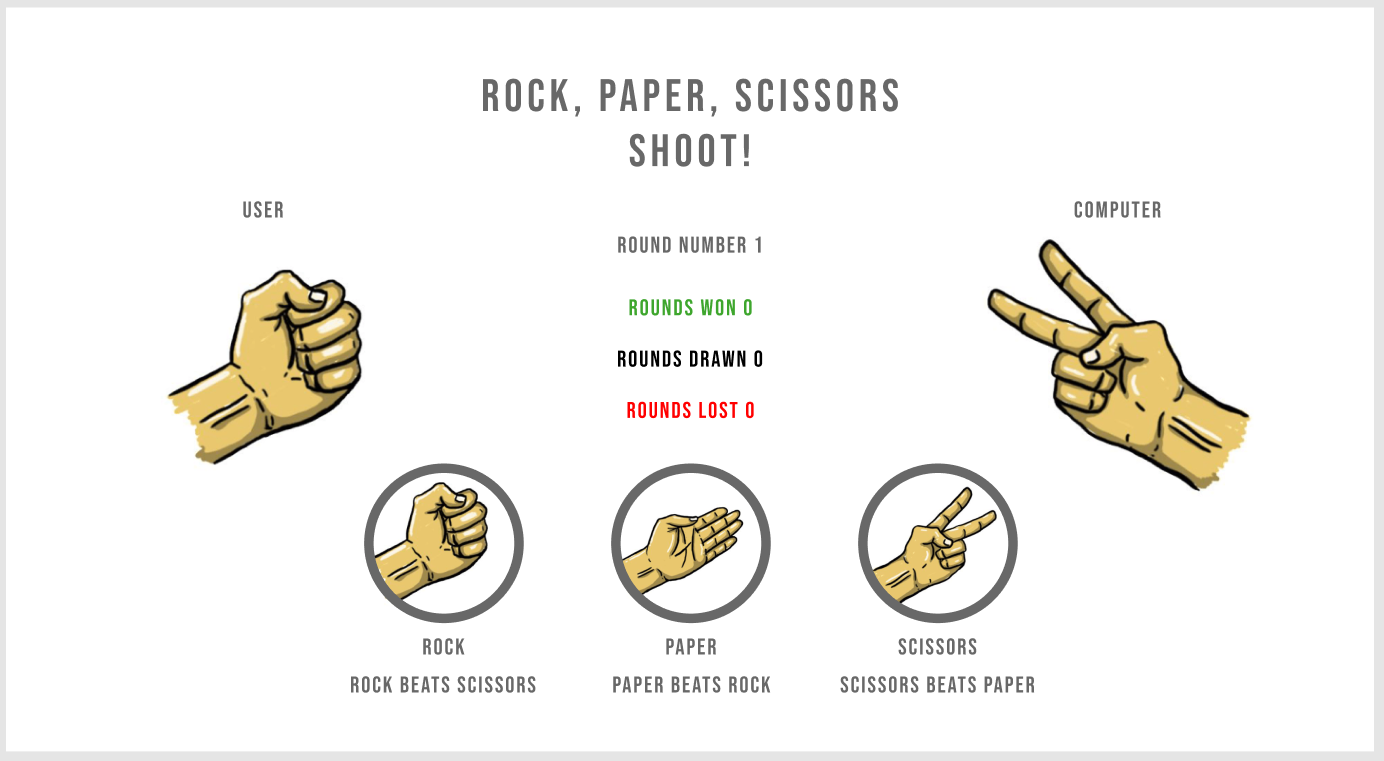
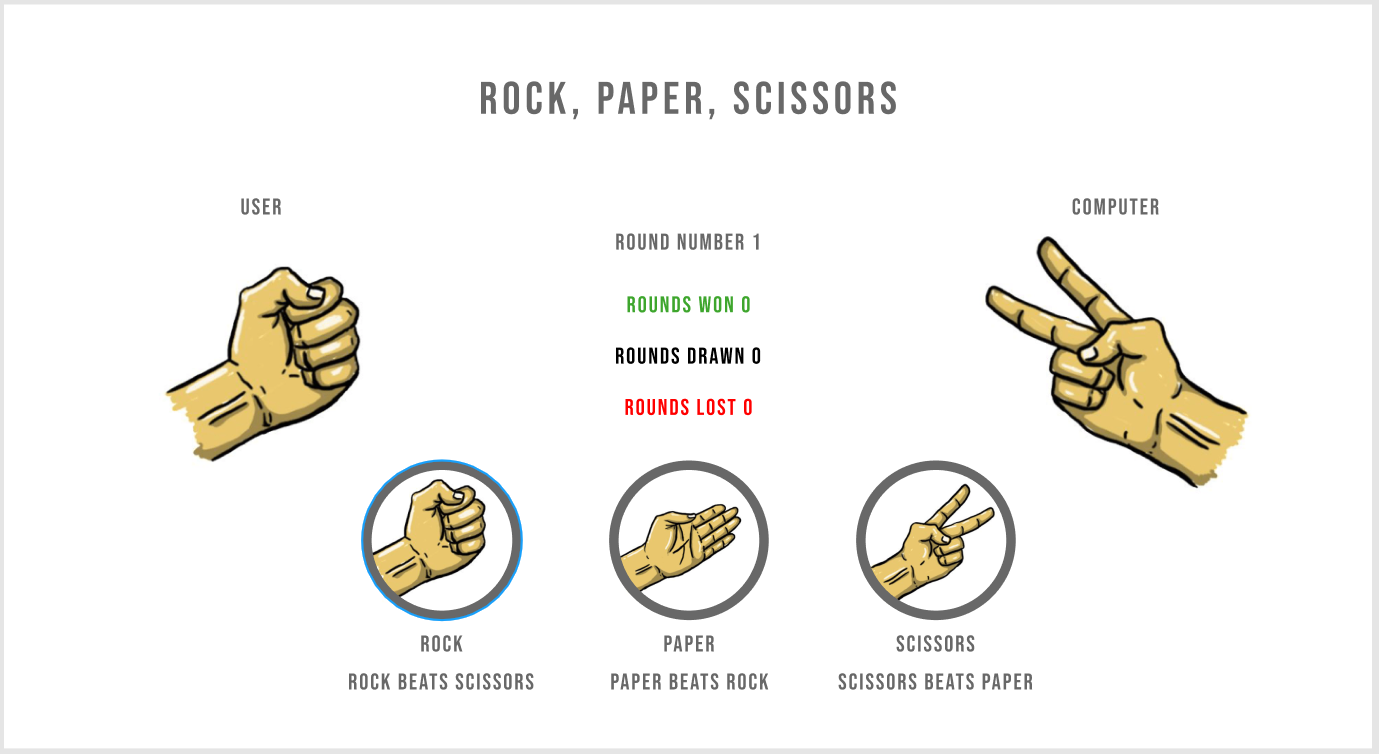
readme screenshots updated, unbinding to be looked at in js

diff --git a/index.html b/index.html
@@ -4,9 +4,9 @@
     <meta charset="UTF-8">
     <meta http-equiv="X-UA-Compatible" content="IE=edge">
     <meta name="viewport" content="width=device-width, initial-scale=1.0">
-    <meta name="description" content="Rock, Paper, Scissors Shoot! - Interactive Game">
+    <meta name="description" content="Rock, Paper, Scissors! - Interactive Game">
     <meta name="keywords"
-        content="rock, paper, scissors, game, interactive, computer, random, kill time, chill out game">
+        content="rock, paper, scissors, game, interactive, computer, random, chill out game">
 
     <link rel="apple-touch-icon" sizes="180x180" href="./assets/favicon/apple-touch-icon.png">
     <link rel="icon" type="image/png" sizes="32x32" href="./assets/favicon/favicon-32x32.png">
@@ -14,12 +14,12 @@
     <link rel="manifest" href="./assets/favicon/site.webmanifest" crossorigin="use-credentials">
     <link href="https://fonts.googleapis.com/css2?family=Bebas+Neue&family=Space+Mono&display=swap" rel="stylesheet">
     <link rel="stylesheet" href="assets/css/style.css">
-    <title>Rock, Paper, Scissors Shoot!</title>
+    <title>Rock, Paper, Scissors!</title>
 </head>
 <body>
 
     <div class="game-name">
-        Rock, Paper, Scissors <br> Shoot!
+        Rock, Paper, Scissors!
     </div>
 
         <div class="players">

diff --git a/assets/css/style.css b/assets/css/style.css
@@ -321,7 +321,6 @@ body {
     #computer-image {
         width: 120px;
         margin-top: 50px;
-
     }
 
     .player-name-user {
@@ -379,6 +378,7 @@ body {
     .rules{
         font-size: 1rem;
     }
+}
 
 
 @media (max-width: 320px) {
@@ -458,5 +458,4 @@ body {
         font-size: 0.8rem;
         margin: 10px;
     }
-
 }

diff --git a/README.md b/README.md
@@ -1,14 +1,14 @@
-# Rock, Paper, Scissors Shoot!
+# Rock, Paper, Scissors!
 
-For the deployed Website [Click here.](https://liamsmith3194.github.io/rock-paper-scissors-shoot/)
+For the deployed Website [Click here.](https://liamsmith3194.github.io/rock-paper-scissors/)
 
-Welcome to Rock, Paper, Scissors Shoot! Based on the popular hand game, usually played between two people, in which each player simultaneously form one of three shapes with a hand.
+Welcome to Rock, Paper, Scissors! Based on the popular hand game, usually played between two people, in which each player simultaneously form one of three shapes with a hand.
 
-![Icons & Rules](https://raw.githubusercontent.com/liamsmith3194/rock-paper-scissors-shoot/main/assets/readme-images/icons-rules.PNG)
+![Icons & Rules](https://raw.githubusercontent.com/liamsmith3194/rock-paper-scissors/main/assets/readme-images/icons-rules.PNG)
 
 Responsively designed to display on a range of devices from desktops to mobiles.
 
-![Am I Responsive](https://raw.githubusercontent.com/liamsmith3194/rock-paper-scissors-shoot/main/assets/readme-images/am-i-responsive.PNG)
+![Am I Responsive](https://raw.githubusercontent.com/liamsmith3194/rock-paper-scissors/main/assets/readme-images/am-i-responsive.PNG)
 
 ## User Experience (UX)
 
@@ -35,13 +35,13 @@ The scoreboard uses win, draw, lose colours (green #3EA62D, black #000000, red #
 
 - ### Wireframes
 
-- Figma Desktop Wireframe - [View](https://www.figma.com/file/ciXYUYV361qot5MCN7Z5hF/Rock%2C-Paper%2C-Scissors-Shoot---Desktop?node-id=0%3A1)
+- Figma Desktop Wireframe - [View](https://www.figma.com/file/ciXYUYV361qot5MCN7Z5hF/Rock%2C-Paper%2C-Scissors---Desktop?node-id=0%3A1)
 
-![Figma Desktop Wireframe](https://raw.githubusercontent.com/liamsmith3194/rock-paper-scissors-shoot/main/assets/readme-images/desktop-wireframe.PNG)
+![Figma Desktop Wireframe](https://raw.githubusercontent.com/liamsmith3194/rock-paper-scissors/main/assets/readme-images/desktop-wireframe.PNG)
 
-- Figma Mobile Wireframe - [View](https://www.figma.com/file/EtSRFMgeaP0ACLVRtgNXmQ/Rock%2C-Paper%2C-Scissors-Shoot---Mobile?node-id=0%3A1)
+- Figma Mobile Wireframe - [View](https://www.figma.com/file/EtSRFMgeaP0ACLVRtgNXmQ/Rock%2C-Paper%2C-Scissors---Mobile?node-id=0%3A1)
 
-![Figma Mobile Wireframe](https://raw.githubusercontent.com/liamsmith3194/rock-paper-scissors-shoot/main/assets/readme-images/mobile-wireframe.PNG)
+![Figma Mobile Wireframe](https://raw.githubusercontent.com/liamsmith3194/rock-paper-scissors/main/assets/readme-images/mobile-wireframe.PNG)
 
 ## Features
 Below is a brief overview of the website and its main features.
@@ -52,11 +52,9 @@ Below is a brief overview of the website and its main features.
 
 ### Interactive buttons
 
-- Removing the background behind the images has made the buttons look very professional especially when hovered over with the white background filling in around the icon in a slightly lighter shade of grey.
-![Buttons Hover Pseudo](https://raw.githubusercontent.com/liamsmith3194/rock-paper-scissors-shoot/main/assets/readme-images/interactive-buttons-hover.PNG)
+- Removing the background behind the images has made the buttons look very professional especially when hovered over with the white background filling in around the icon in a slightly lighter shade of grey. The button also increases in size slightly making it even more obvious for the user to know where the mouse is.
+![Buttons Hover Pseudo](https://raw.githubusercontent.com/liamsmith3194/rock-paper-scissors/main/assets/readme-images/interactive-buttons-hover.PNG)
 
-- When a button is clicked that button increases in size to show the user that their selection has been identified and the computer is randomly selecting its answer in return.
-![Buttons Focus Pseudo](https://raw.githubusercontent.com/liamsmith3194/rock-paper-scissors-shoot/main/assets/readme-images/interactive-buttons-focus.PNG)
 
 ### Alert message to confirm round outcome
 
@@ -65,15 +63,15 @@ Below is a brief overview of the website and its main features.
 - The computer played: Rock
 - It's a draw!
 
-![Won](https://raw.githubusercontent.com/liamsmith3194/rock-paper-scissors-shoot/main/assets/readme-images/alert-message-won.PNG)
+![Won](https://raw.githubusercontent.com/liamsmith3194/rock-paper-scissors/main/assets/readme-images/alert-message-won.PNG)
 
-![Drawn](https://raw.githubusercontent.com/liamsmith3194/rock-paper-scissors-shoot/main/assets/readme-images/alert-message-draw.PNG)
+![Drawn](https://raw.githubusercontent.com/liamsmith3194/rock-paper-scissors/main/assets/readme-images/alert-message-draw.PNG)
 
-![Lost](https://raw.githubusercontent.com/liamsmith3194/rock-paper-scissors-shoot/main/assets/readme-images/alert-message-lost.PNG)
+![Lost](https://raw.githubusercontent.com/liamsmith3194/rock-paper-scissors/main/assets/readme-images/alert-message-lost.PNG)
 
 ### Automatic updating scoreboard & round number
 
-![Scoreboard](https://raw.githubusercontent.com/liamsmith3194/rock-paper-scissors-shoot/main/assets/readme-images/scoreboard.PNG)
+![Scoreboard](https://raw.githubusercontent.com/liamsmith3194/rock-paper-scissors/main/assets/readme-images/scoreboard.PNG)
 
 ## Future Features
 
@@ -106,8 +104,8 @@ Below is a brief overview of the website and its main features.
 
 The W3C Markup Validator and W3C CSS Validator Services were used to ensure there were no syntax errors in the project.
 
-- [W3C Markup Validator](https://jigsaw.w3.org/css-validator/#validate_by_input) - [Results](https://validator.w3.org/nu/?doc=https%3A%2F%2Fliamsmith3194.github.io%2Frock-paper-scissors-shoot%2F)
-- [W3C CSS Validator](https://jigsaw.w3.org/css-validator/#validate_by_input) - [Results](https://jigsaw.w3.org/css-validator/validator?uri=https%3A%2F%2Fliamsmith3194.github.io%2Frock-paper-scissors-shoot)
+- [W3C Markup Validator](https://jigsaw.w3.org/css-validator/#validate_by_input) - [Results](https://validator.w3.org/nu/?doc=https%3A%2F%2Fliamsmith3194.github.io%2Frock-paper-scissors%2F)
+- [W3C CSS Validator](https://jigsaw.w3.org/css-validator/#validate_by_input) - [Results](https://jigsaw.w3.org/css-validator/validator?uri=https%3A%2F%2Fliamsmith3194.github.io%2Frock-paper-scissors)
 
 ### Lighthouse Testing
 
@@ -115,11 +113,11 @@ Initial lighthouse scores produced a performance of 100, accessibility of 94 but
 
 - Mobile Results
 
-![Lighthouse Mobile Results](https://raw.githubusercontent.com/liamsmith3194/rock-paper-scissors-shoot/main/assets/readme-images/lighthouse-mobile.PNG)
+![Lighthouse Mobile Results](https://raw.githubusercontent.com/liamsmith3194/rock-paper-scissors/main/assets/readme-images/lighthouse-mobile.PNG)
 
 - Desktop Results
 
-![Lighthouse Desktop Results](https://raw.githubusercontent.com/liamsmith3194/rock-paper-scissors-shoot/main/assets/readme-images/lighthouse-desktop.PNG)
+![Lighthouse Desktop Results](https://raw.githubusercontent.com/liamsmith3194/rock-paper-scissors/main/assets/readme-images/lighthouse-desktop.PNG)
 
 ### Testing User Stories from User Experience (UX) Section
 
@@ -165,24 +163,24 @@ GitHub was the program used to deploy the site, it was accomplished by using the
 
 1. Log in to GitHub and select the GitHub Repository.
 
-![GitHub Repository](https://raw.githubusercontent.com/liamsmith3194/rock-paper-scissors-shoot/main/assets/readme-images/github-repo.PNG)
+![GitHub Repository](https://raw.githubusercontent.com/liamsmith3194/rock-paper-scissors/main/assets/readme-images/github-repo.PNG)
 
 2. At the top of the page towards the middle of the screen you will see a "Settings" menu item with a cog icon.
 
-![GitHub Settings](https://raw.githubusercontent.com/liamsmith3194/rock-paper-scissors-shoot/main/assets/readme-images/github-settings.PNG)
+![GitHub Settings](https://raw.githubusercontent.com/liamsmith3194/rock-paper-scissors/main/assets/readme-images/github-settings.PNG)
 3. On the left-hand side is a vertical list locate and click "Pages".
 
-![GitHub Pages](https://raw.githubusercontent.com/liamsmith3194/rock-paper-scissors-shoot/main/assets/readme-images/github-pages.PNG)
+![GitHub Pages](https://raw.githubusercontent.com/liamsmith3194/rock-paper-scissors/main/assets/readme-images/github-pages.PNG)
 
 4. Under the "Source" sub-heading, click on the dropdown by default "None" and choose "main".
 
-![GitHub Source](https://raw.githubusercontent.com/liamsmith3194/rock-paper-scissors-shoot/main/assets/readme-images/github-source.PNG)
+![GitHub Source](https://raw.githubusercontent.com/liamsmith3194/rock-paper-scissors/main/assets/readme-images/github-source.PNG)
 
 5. Click "Save"
 5. The page will automatically refresh.
 6. Scroll back down through the page to locate the now published site [link](https://github.com) in the "GitHub Pages" section.
 
-![GitHub Publish](https://raw.githubusercontent.com/liamsmith3194/rock-paper-scissors-shoot/main/assets/readme-images/github-published.PNG)
+![GitHub Publish](https://raw.githubusercontent.com/liamsmith3194/rock-paper-scissors/main/assets/readme-images/github-published.PNG)
 
 ## References
 
